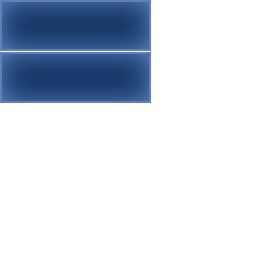
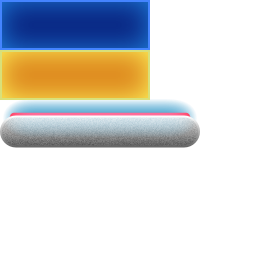
update graphics

diff --git a/examples/arkanoid/entities/level.rs b/examples/arkanoid/entities/level.rs
@@ -4,7 +4,8 @@ use fine::graphic::{wgpu, Gpu, TextureAtlas};
 use fine::math::{Vector2, Vector4};
 
 pub struct Level {
-    pub bricks: Vec<Brick>,
+    pub bricks: Vec<Sprite>,
+    pub player: Sprite,
     pub texture_binding: wgpu::BindGroup,
     pub bg: Sprite,
     pub bg_binding: wgpu::BindGroup,
@@ -15,16 +16,16 @@ impl Level {
         let img = image::load_from_memory(&include_bytes!("../assets/brick4.png")[..]).unwrap();
         let mut atlas = TextureAtlas::new(gpu, 256, 256, 3);
         atlas.append_image(gpu, &img, |atlas| {
-            atlas.add("blue", 0, Vector4::new(0, 0, 151, 51), None);
-            atlas.add("green", 1, Vector4::new(0, 52, 151, 51), None);
-            atlas.add("paddle", 2, Vector4::new(1, 102, 198, 28), None);
+            atlas.add("blue", 0, Vector4::new(0, 0, 150, 50), None);
+            atlas.add("yellow", 1, Vector4::new(0, 50, 150, 50), None);
+            atlas.add("paddle", 2, Vector4::new(0, 100, 200, 48), None);
         });
 
         let (w, h, ..) = atlas.dimensions();
         let texture_binding =
             pipeline.create_texture_binding(gpu, atlas.as_view(), w as f32, h as f32);
 
-        let bricks: Vec<Brick> = (0..width * height)
+        let mut bricks: Vec<Sprite> = (0..width * height)
             .map(|index| {
                 let index = index as f32;
                 let width = width as f32;
@@ -33,10 +34,10 @@ impl Level {
                 let x = index % width;
                 let y = f32::floor(index / width);
 
-                let frame = if index % 2f32 == 0f32 {
-                    "green"
-                } else {
+                let frame = if y % 2f32 == 0f32 {
                     "blue"
+                } else {
+                    "yellow"
                 };
 
                 let mut sprite = Sprite::from_atlas(frame, &atlas);
@@ -51,9 +52,13 @@ impl Level {
                     0.0,
                 );
 
-                Brick { sprite }
+                sprite
             })
             .collect();
+
+        let mut player = Sprite::from_atlas("paddle", &atlas);
+        player.transform.scale(0.5);
+        player.transform.translate(0.0, -200.0, 0.0);
 
         let size = 64u32;
         let bg_texture = fine::graphic::create_texture_color(0x0C0F1A, size, size, gpu);
@@ -73,6 +78,7 @@ impl Level {
 
         Self {
             bricks,
+            player,
             texture_binding,
             bg,
             bg_binding,
@@ -85,12 +91,6 @@ impl Level {
         pipeline: &mut SpritePipeline,
         camera: &crate::Camera,
     ) {
-        let instances: Vec<&Sprite> = self
-            .bricks
-            .iter_mut()
-            .map(|brick| &brick.sprite)
-            .collect();
-
         let (gpu, attachment) = frame.target();
 
         pipeline.draw(gpu, attachment, camera, &self.bg_binding, &[&self.bg]);
@@ -100,7 +100,14 @@ impl Level {
             attachment,
             camera,
             &self.texture_binding,
-            instances.as_slice(),
+            &self.bricks.iter().collect::<Vec<&Sprite>>(),
+        );
+        pipeline.draw(
+            gpu,
+            attachment,
+            camera,
+            &self.texture_binding,
+            &[&self.player],
         );
     }
 }

diff --git a/src/graphic/texture/mod.rs b/src/graphic/texture/mod.rs
@@ -16,7 +16,7 @@ pub fn create_texture_color(
             std::iter::once((color & 0xFF) as u8)
                 .chain(std::iter::once((color >> 8 & 0xFF) as u8))
                 .chain(std::iter::once((color >> 16 & 0xFF) as u8))
-                .chain(std::iter::once(1))
+                .chain(std::iter::once(0xFF))
         })
         .collect();
 

diff --git a/examples/arkanoid/main.rs b/examples/arkanoid/main.rs
@@ -19,7 +19,7 @@ impl fine::Scene for ArkanoidScene {
     {
         let sprite = SpritePipeline::new(&mut frame);
         let gpu = frame.gpu();
-        let level = entities::Level::generate(8, 10, gpu, &sprite);
+        let level = entities::Level::generate(8, 11, gpu, &sprite);
 
         Self {
             level,
